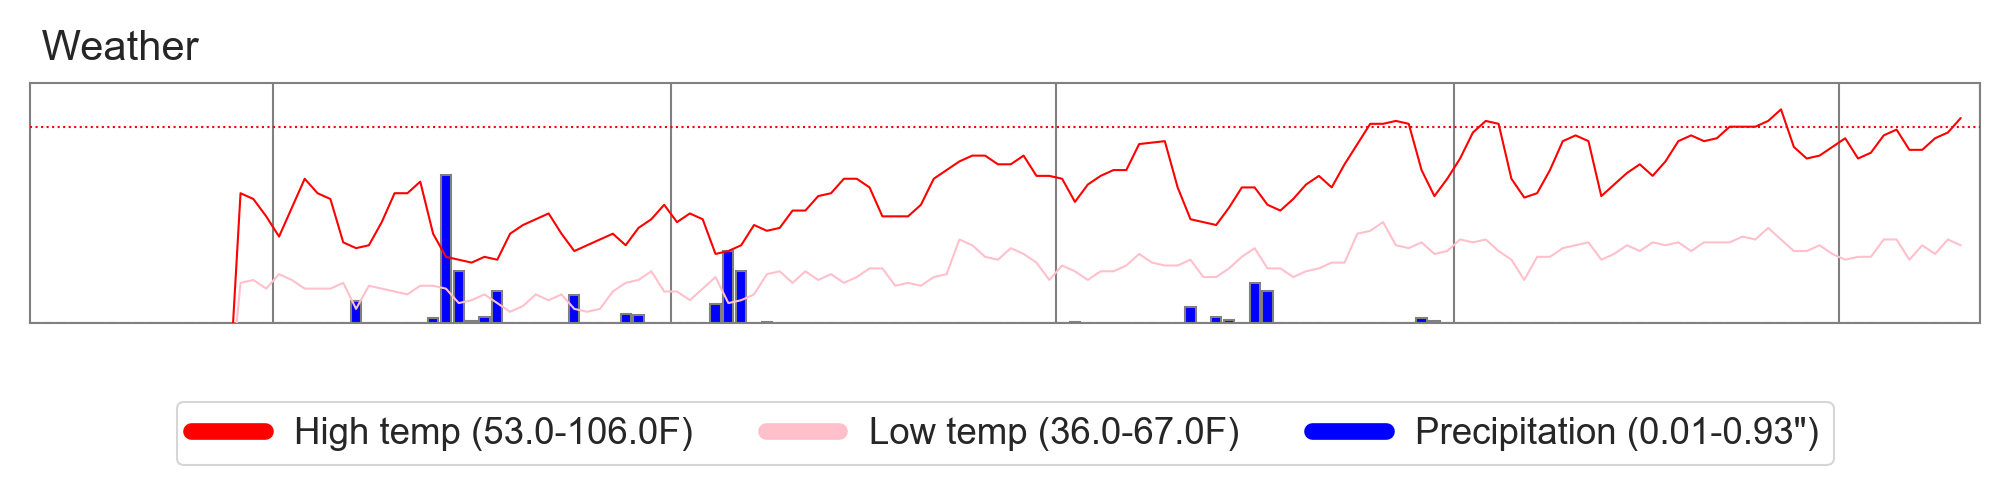
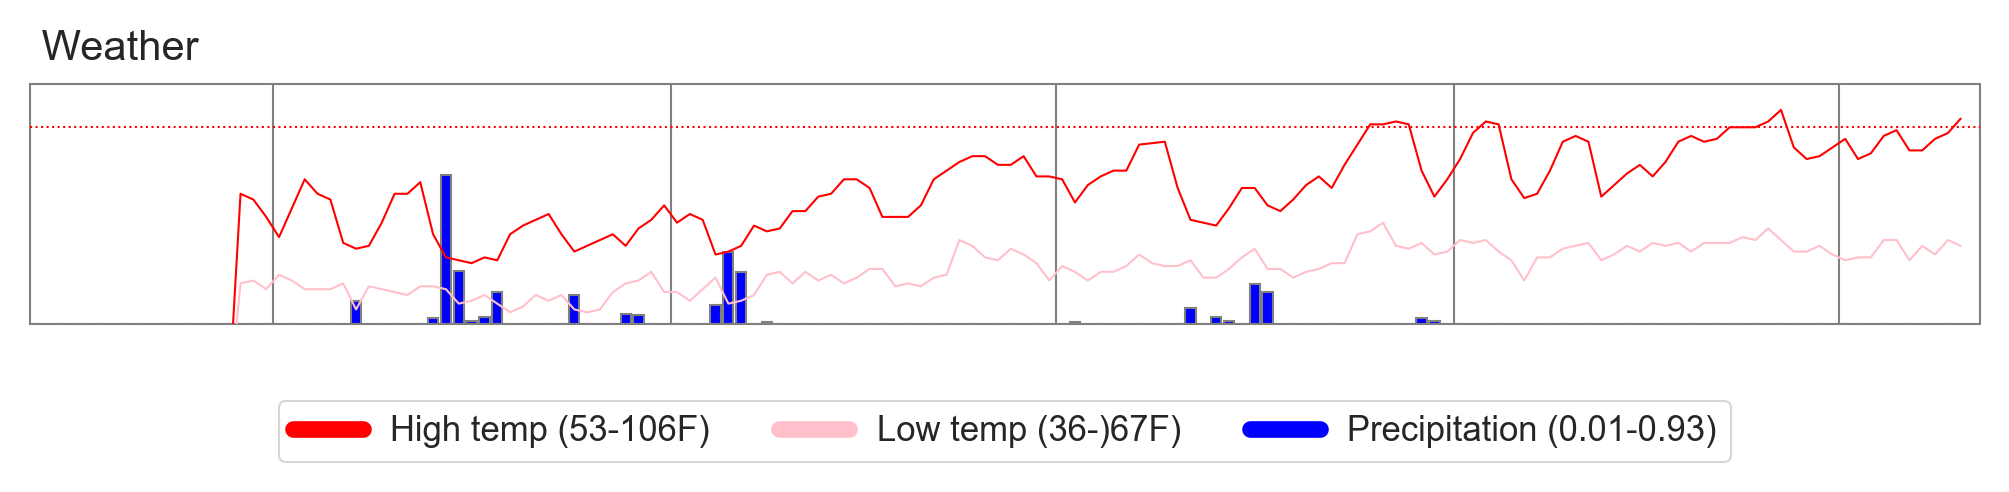
Added error logging + bugs
Fixed a bug where I wasn't trimming off data from past years, which could happen if data is mistagged. Also added error logging to file.

diff --git a/TRBL Summarizer/TRBLSummarizer.py b/TRBL Summarizer/TRBLSummarizer.py
@@ -14,6 +14,7 @@ from collections import Counter
 from itertools import tee
 import random
 from PIL import Image, ImageDraw, ImageFont
+from datetime import datetime as dt
 
 #to force garbage collection and reduce memory use
 import gc
@@ -161,12 +162,14 @@ data_file = 'data.csv'
 site_info_file = 'sites.csv'
 weather_file = 'weather_history.csv'
 data_old_file = 'data_old.csv'
+error_file = figure_dir / 'error.txt'
 files = {
     data_file : data_dir / data_file,
     site_info_file : data_dir / site_info_file,
     weather_file : data_dir / weather_file,
     data_old_file : data_dir / data_old_file
 }
+
 
 pm_file_types = ['Male', 'Female', 'Young Nestling', 'Mid Nestling', 'Old Nestling']
 
@@ -177,8 +180,19 @@ preserve_edges_flag = -99
 # Helper functions
 #
 #
+def init_logging():
+    if os.path.isfile(error_file):
+        os.remove(error_file)
+    with error_file.open("a") as f:
+        f.write(f"Logging started {dt.now().strftime('%d-%b-%y %H:%M:%S')}")    
+
+def log_error(msg: str):
+    with error_file.open("a") as f:
+        f.write(msg + '\n')
+
 def show_error(msg: str):
     st.error("Whoops! " + msg + "! This may not work correctly.")
+    log_error(msg)
 
 def pairwise(iterable):
     a, b = tee(iterable) # Note that tee is from itertools
@@ -379,22 +393,37 @@ def clean_data(df: pd.DataFrame, site_list: list) -> pd.DataFrame:
     for site in site_list:
         df_site = df[df[site_str] == site]
 
-        #Sort descending, find first two consecutive items and drop everything after.
+        #used to ensure anything outside this year gets dropped
+        target_year = site[0:4]
+
+        # Sort newest to oldest (backwards) and filter to this year
         df_site = df_site.sort_index(ascending=False)
+        original_size = df_site.shape[0]
+        df_site = df_site.query(f"date <= '{target_year}-12-31'")
+        if df_site.shape[0] != original_size:
+            log_error(f"Data for site {site} has the wrong year in it, newer than its year")
+
+        # Now, find first two consecutive items and drop everything after.
         dates = df_site.index.unique()
         for x,y in pairwise(dates):
             if abs((x-y).days) == 1:
                 #found a match, need to keep only what's after this
-                df_site = df_site.query("date <= '{}'".format(x.strftime('%Y-%m-%d')))
+                df_site = df_site.query(f"date <= '{x.strftime('%Y-%m-%d')}'")
                 break
 
-        #Sort ascending, find first two consecutive items and drop everything before
+        #Sort oldest to newest, and filter to this year
         df_site = df_site.sort_index(ascending=True)
+        original_size = df_site.shape[0]
+        df_site = df_site.query(f"date >= '{target_year}-01-01'")
+        if df_site.shape[0] != original_size:
+            log_error(f"Data for site {site} has the wrong year in it, older than its year")
+
+        # Find first two consecutive items and drop everything before
         dates = df_site.index.unique()
         for x,y in pairwise(dates):
             if abs((x-y).days) == 1:
                 #found a match, need to keep only what's after this
-                df_site = df_site.query("date >= '{}'".format(x.strftime('%Y-%m-%d')))
+                df_site = df_site.query(f"date >= '{x.strftime('%Y-%m-%d')}'")
                 break
 
         df_clean = pd.concat([df_clean, df_site])
@@ -466,7 +495,7 @@ def make_pattern_match_pt(site_df: pd.DataFrame, type_name:str, date_range_dict:
 #  
 def get_site_to_analyze(site_list:list) -> str:
     #debug: to get a specific site, put the name of the site below and uncomment
-    #return('2022 Baja 1')
+    #return('2020 Ohlone - Santa Lucia Preserve')
 
     #Calculate the list of years, sort it backwards so most recent is at the top
     year_list = []
@@ -484,8 +513,12 @@ def get_site_to_analyze(site_list:list) -> str:
 # and if the user wants a specific range then update our range to reflect that.
 def get_date_range(df:pd.DataFrame, graphing_all_sites:bool) -> dict:
     df.sort_index(inplace=True)
-    #Set the default date range to the first and last dates that we have data
-    date_range_dict = {start_str : df.index[0].strftime("%m-%d-%Y"), end_str : df.index[len(df)-1].strftime("%m-%d-%Y")}
+
+    # Set the default date range to the first and last dates that we have data
+    # Assume that the data cleaning code has removed any extraneous dates, such as if data 
+    # is mistagged (i.e. data from 2019 shows up in the 2020 site)
+    date_range_dict = {start_str : df.index[0].strftime("%m-%d-%Y"), 
+                       end_str : df.index[len(df)-1].strftime("%m-%d-%Y")}
     
     if not graphing_all_sites:
         months1 = {'First': '-1', 'February':'02', 'March':'03', 'April':'04', 'May':'05', 'June':'06', 'July':'07', 'August':'08', 'September':'09'}
@@ -1070,18 +1103,19 @@ def create_weather_graph(weather_by_type:dict, site_name:str) -> plt.figure:
 
         # Add a legend for the figure
         # For more legend tips see here: https://matplotlib.org/stable/gallery/text_labels_and_annotations/custom_legends.html
-        tmax_label = 'High temp ({}-{}F)'.format(min_above_zero(weather_by_type[weather_tmax]['value']),
-                                                 weather_by_type[weather_tmax]['value'].max())
-        tmin_label = 'Low temp ({}-{}F)'.format(min_above_zero(weather_by_type[weather_tmin]['value']),
-                                                weather_by_type[weather_tmin]['value'].max())
-        prcp_label = 'Precipitation ({}-{}\")'.format(min_above_zero(weather_by_type[weather_prcp]['value']),
-                                                      weather_by_type[weather_prcp]['value'].max())
+        tmax_label = f"High temp ({min_above_zero(weather_by_type[weather_tmax]['value']):.0f}-"\
+                     f"{weather_by_type[weather_tmax]['value'].max():.0f}F)"
+        tmin_label = f"Low temp ({min_above_zero(weather_by_type[weather_tmin]['value']):.0f}-"\
+                     f"{weather_by_type[weather_tmin]['value'].max():.0f}F)"
+        prcp_label = f"Precipitation ({min_above_zero(weather_by_type[weather_prcp]['value']):.2f}-"\
+                     f"{weather_by_type[weather_prcp]['value'].max():.2f})"
         legend_elements = [Line2D([0], [0], color='red', lw=4, label=tmax_label),
                            Line2D([0], [0], color='pink', lw=4, label=tmin_label),
                            Line2D([0], [0], color='blue', lw=4, label=prcp_label)]
         
         #draw the legend below the chart. that's what the bbox_to_anchor with -0.5 does
-        ax1.legend(handles=legend_elements, loc='upper center', bbox_to_anchor=(0.5, -0.25), ncol=3)
+        ax1.legend(handles=legend_elements, loc='upper center', bbox_to_anchor=(0.5, -0.25), ncol=3,
+                   fontsize='x-small')
     else:
         fig = plt.figure()
 
@@ -1463,6 +1497,7 @@ for site in target_sites:
     #TODO remove the "True" below when we're done debugging
     if True or make_all_graphs or save_files:
         combine_images(site, month_locs)
+        #TODO clean up by deleting all the files with "clean" in their name
 
 #If site_df is empty, then there were no recordings at all for the site and so we can skip all the summarizing
 if not make_all_graphs and len(df_site):
